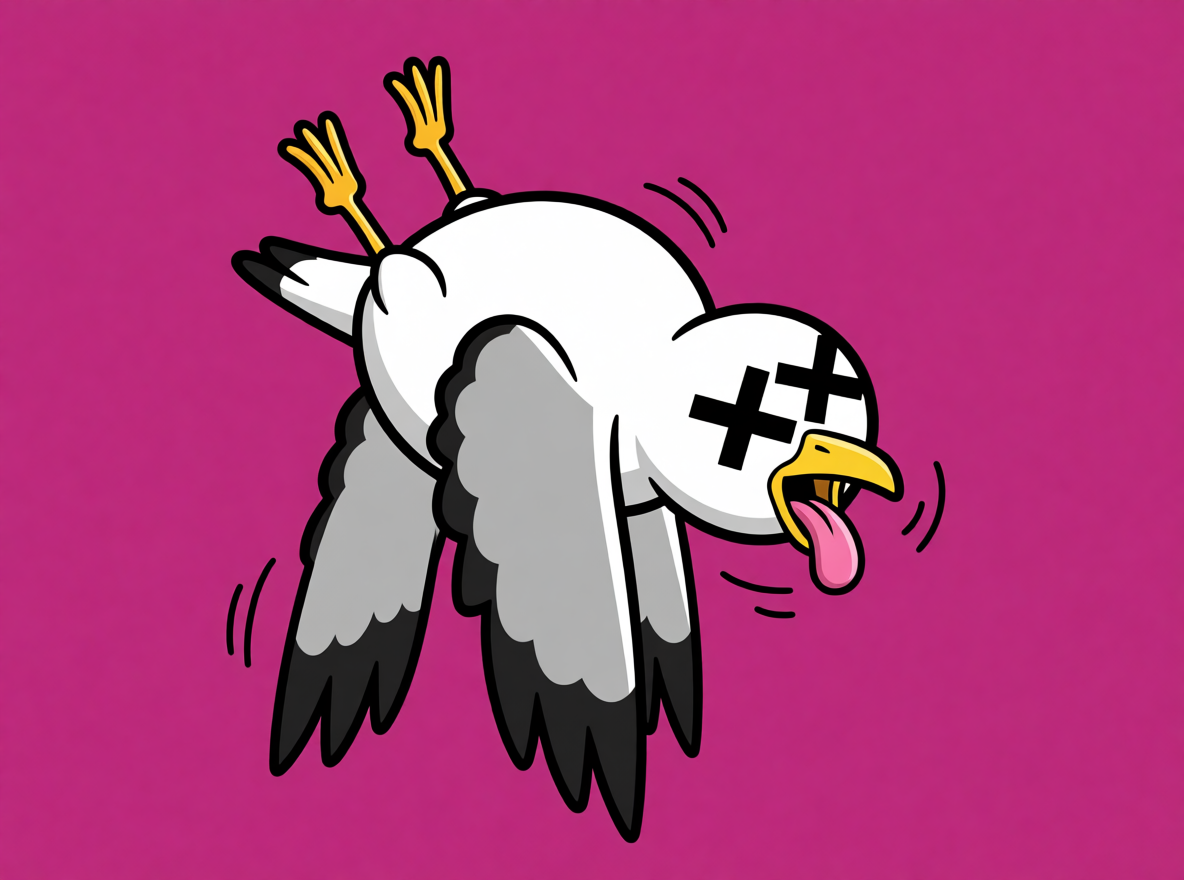
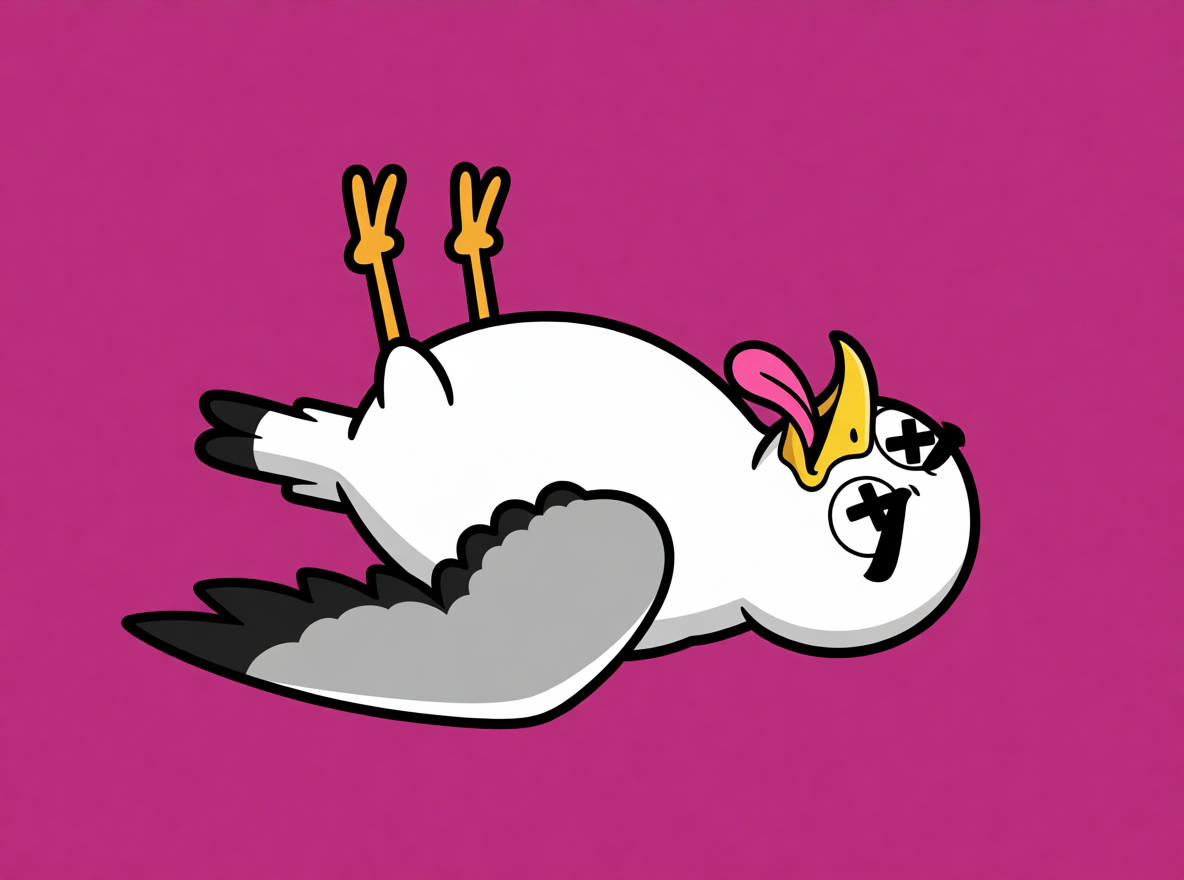
Frog Ninja: end of a run (teeter 10% smaller, painted katanas left in the post, painted splash), fainted seagull with one wing, never the same frog picture twice running

Changed region(s): [[0.0938, 0.0614, 0.8438, 0.9511]]

diff --git a/static/js/views/frog-game.js b/static/js/views/frog-game.js
@@ -298,10 +298,10 @@ const HOP_ART = { url: '/img/game/frog/hop.f4e8b0205d.webp', size: [1280, 530], 
 // the teeter (Marek's pick 2026-11-22, 'really off-base, like about to fall very strongly'; scared, not loud): under five seconds it is tipped right over
 // on the toes of one foot, arms flung out, hands empty: its katanas are stuck in the post (the fire breath's picture of them). mid/feet: the toes
 // it stands on (read off the picture: the builder's --foot caught a hand too); rock: degrees it sways about them, faster the less time there is.
-const TEETER_ART = { url: '/img/game/frog/teeter.47b8c075fd.webp', size: [839, 692], mid: 112, feet: 687, headW: 260, rock: 7, katanas: true };
+const TEETER_ART = { url: '/img/game/frog/teeter.47b8c075fd.webp', size: [839, 692], mid: 112, feet: 687, headW: 260, rock: 7, katanas: true, grow: 0.9 };      // (Marek, 2026-11-24: 10% smaller)
 // the fall (Marek's pick 2026-11-22, 'put the open mouth for now'): game over, arms thrown up, mouth open. It sits in the frog's own group, so the
 // topple and the drop that turned the drawn frog over (pose.fallRot, pose.fallY) turn and drop this picture. No katanas in it: they fall on their own.
-const FALL_ART = { url: '/img/game/frog/fall.1ad4941ca5.webp', size: [528, 707], mid: 236, feet: 707, headW: 245, lift: 120, front: true };
+const FALL_ART = { url: '/img/game/frog/fall.1ad4941ca5.webp', size: [528, 707], mid: 236, feet: 707, headW: 245, lift: 120, front: true, grow: 0.9 };      // (the size of the teeter before it)
 const CUT_POSES = { cut: CUT_ART, down: SIDESLASH_ART, over: OVER_ART, under: UNDER_ART, duck: DUCK_ART, rise: RISE_ART, hop: HOP_ART, teeter: TEETER_ART, fall: FALL_ART };
 // The twitch (Marek, 2026-11-22: 'a slight directional twitch that currently exists for the upward slash, across all animations'): the overhead slash
 // jumps a little further up for the first two frames and settles (its squash); every other cut pose now does the same along its cut: TWITCH rig units
@@ -1190,6 +1190,12 @@ function drawLaptop(ctx, b, lw) {
     ctx.beginPath(); ctx.rect(-r * 1.05, r * 0.6, r * 2.1, r * 0.18); ctx.fill(); ctx.stroke();
     ctx.restore();
 }
+// The frog's splash when it goes into the sea at the end of a run, painted (built by art_build_splash.py).
+// SPLASH_ART:begin (written by design/frog/tools/art_build_splash.py: do not edit by hand)
+const SPLASH_ART = { url: '/img/game/fx/splash.534a031bc0.webp', size: [560, 299] };
+// SPLASH_ART:end
+const splashArt = { img: null };
+if (ART.frog && SPLASH_ART && typeof Image !== 'undefined') { const i = new Image(); i.onload = () => { splashArt.img = i; }; i.src = SPLASH_ART.url; }
 // The seagull as a painted character (3.7; Marek's pick 'seagull A', 2026-11-24: "a plain seagull made in the style of the
 // frog", no headband, nothing in its claws): one drawing per pose, built by art_build_gull.py. px = pixels per r; at = the
 // gull's centre in the picture. ?art=old (or a picture that did not load) leaves the code drawing below.
@@ -1199,7 +1205,7 @@ const GULL_ART = { px: 96, poses: {
     mid: { url: '/img/game/gull/mid.eca8949765.webp', size: [329, 176], at: [174.0, 100.4] },
     down: { url: '/img/game/gull/down.2e1eb02f3b.webp', size: [229, 211], at: [156.3, 65.6] },
     squawk: { url: '/img/game/gull/squawk.bcd62ce5e3.webp', size: [267, 201], at: [169.9, 125.0] },
-    fainted: { url: '/img/game/gull/fainted.0e74fb0cef.webp', size: [207, 243], at: [115.2, 89.6] },
+    fainted: { url: '/img/game/gull/fainted.a495502124.webp', size: [265, 174], at: [155.1, 94.8] },
     perched: { url: '/img/game/gull/perched.942b479251.webp', size: [210, 201], at: [137.4, 133.8] },
     peck: { url: '/img/game/gull/peck.f3286eb6eb.webp', size: [242, 160], at: [166.7, 92.8] },
     yell: { url: '/img/game/gull/yell.d9845a10b4.webp', size: [276, 197], at: [167.3, 129.8] },
@@ -2334,7 +2340,7 @@ export function mountFrogGame(stage, opts = {}) {
         if (m && !on && (artWheelOn() || artBreathOn() || pose.fallY || pose.chop || pose.up <= 0.5)) m = C.m = null;      // (not back to standing but into a cartwheel, a breath, a fall: those are their own pictures, no blend)
         const show = on || !!m;      // (through a change the cut layer is up either way: the standing frog in it is the copy, the real one comes back when it is over)
         if (show !== C.on) { C.on = show; svg.classList.toggle('fg-art-cut-on', show); }
-        const kat = !!(on && Q.katanas);
+        const kat = !!(on && Q.katanas && !pose.over);      // (at the end of a run the canvas has them: see 'left in the post')
         if (kat !== !!C.katOn) { C.katOn = kat; setA(C.kat, 'display', kat ? 'inline' : 'none'); }
         if (kat) { const bk = breathK(); setA(C.kat, 'transform', `translate(0 ${n2(pose.up * RISE)}) translate(993 ${BREATH_ART.rigFeet}) scale(${n2(bk)} ${n2(bk)}) translate(${-BREATH_ART.mid} ${-BREATH_ART.feet})`); }      // (where the fire breath has them: never mirrored)
         const L = C.L;
@@ -3305,7 +3311,26 @@ export function mountFrogGame(stage, opts = {}) {
         if (swingNext && swing.t >= POSE_MIN) { const q = swingNext; swingNext = null; swingTo(...q); }      // the stroke that waited
         if (swing && !swing.live && swing.t > holdUntil(swing) + SETTLE) swing = null;
     }
+    // Never the same picture of the frog twice running (Marek, 2026-11-24): a stroke that would show the picture the stroke
+    // before it showed (same pose, same side) shows that pose's stand-in instead: side cut <> floating slash, rising cut <>
+    // overhead, dive <> duck, hop > rising cut.
+    const POSE_ALT = { cut: 'down', down: 'cut', rise: 'over', over: 'rise', under: 'duck', duck: 'under', hop: 'rise' };
+    let lastPic = '';
+    const katImg = new Image(); katImg.onload = () => { katImg.ok = true; }; if (ART.frog) katImg.src = BREATH_ART.katanas;      // (the painted pair in the post, for the end of a run)
     function poseSwing() {
+        poseSwing0();
+        const s = swing, key = pose.artCut;
+        if (!s || !key || !POSE_ALT[key] || !artCut || !artCut.ready) return;
+        if (!s.pics) s.pics = {};
+        if (!(key in s.pics)) {
+            const first = !Object.keys(s.pics).length, sideOf = k => CUT_POSES[k].front && !CUT_POSES[k].faces ? 0 : pose.side || (s.side === 'L' ? -1 : 1);
+            const alt = first && key + sideOf(key) === lastPic ? POSE_ALT[key] : key;
+            s.pics[key] = alt; if (first) lastPic = alt + sideOf(alt);
+        }
+        const show = s.pics[key];
+        if (show !== key) { pose.artCut = show; if (!pose.side) { pose.side = s.side === 'L' ? -1 : 1; pose.face = pose.side; } }
+    }
+    function poseSwing0() {
         const s = swing, deg = s.a * 180 / Math.PI, cx = Math.cos(s.a), cy = Math.sin(s.a);
         const settling = !s.live && s.t > holdUntil(s);
         const k = settling ? 0.35 : 1;                               // one in-between on the way back to ready
@@ -5639,6 +5664,7 @@ export function mountFrogGame(stage, opts = {}) {
             k.vy += H * 2.4 * dt; k.y += k.vy * dt; k.x += (k.tx - k.x) * Math.min(1, dt * 5); k.rot += (0 - k.rot) * Math.min(1, dt * 7) + (Math.abs(k.rot) > 0.2 ? dt * 14 * Math.sign(k.rot) : 0);
             if (k.vy > 0 && k.y >= k.ty) { k.y = k.ty; k.x = k.tx; k.rot = 0; k.stuck = 0.0001; snd('stick'); }
         });
+        pose.over = overT > 0;
         if (overT <= 0) return;
         overT += dt;
         pose.artCut = 'fall';         // the picked fall stands in for the whole of it: the beat of shock, the topple, the drop
@@ -5689,7 +5715,10 @@ export function mountFrogGame(stage, opts = {}) {
         // full, and only then (OVER_WAIT s) the panel comes up
         // its katanas are left behind: they drop and stick, point down, in the top of the post
         const top = H - (H * 0.18 + 16) + fbox.w * 0.09;       // a little below the rim: the points are in the wood
-        dropped = [-1, 1].map(sd => { const h = frogPoint(sd < 0 ? 300 : 1686, 700); return { x: h.x, y: h.y, tx: W / 2 + sd * fbox.w * 0.11, ty: top, rot: sd * 2.4, vy: -H * 0.25, stuck: 0 }; });
+        // (painted: they are in the post, the same picture of them the teeter and the fire breath have, and they stay there
+        //  when the frog has gone: none drop. The two drawn ones below are for ?art=old only.)
+        const inPost = !!(artCut && artCut.ready);
+        dropped = inPost ? [] : [-1, 1].map(sd => { const h = frogPoint(sd < 0 ? 300 : 1686, 700); return { x: h.x, y: h.y, tx: W / 2 + sd * fbox.w * 0.11, ty: top, rot: sd * 2.4, vy: -H * 0.25, stuck: 0 }; });
         pose.noBlades = true;
         // (it was teetering on one foot: that foot slips, and it goes over as it stands, the other leg still up)
         pose.side = 0; pose.slip = !!pose.low; stage.classList.add('fg-fallen'); overT = 0.0001; splashed = false; swing = null; windUp = false; down = false; cut = null;
@@ -6040,6 +6069,7 @@ export function mountFrogGame(stage, opts = {}) {
         state() {
             const cb = canvas.getBoundingClientRect(), at = o => ({ x: Math.round(o.x + cb.left), y: Math.round(o.y + cb.top) });
             return {
+                pic: swing && !(!swing.live && swing.t > holdUntil(swing)) ? pose.artCut + (pose.side < 0 ? " L" : pose.side > 0 ? " R" : "") : "",      // (the picture a stroke is showing: sound and repeat checks read it)
                 phase, paused: typeof paused !== 'undefined' && paused, debug: dbg, w: W, h: H, survived: r2(clockT), left: r2(timeLeft), stamina: r2(stamina),
                 sake: r2(sakeLeft), fire: r2(fireLeft), freeze: r2(freezeLeft), mirrored: mirrorT > 0, stunned: stunT > 0, tongue: !!tongue, still: dbg && dbgFrozen,
                 fruits: fruits.filter(f => f.entered && !isBehind(f)).map(f => Object.assign(at(f), { r: Math.round(f.r), vx: Math.round(f.vx), vy: Math.round(f.vy), g: Math.round(f.g), kind: f.type.kind, hacked: !!f.hacked, bare: !!f.bare, roasted: !!f.roasted })),
@@ -6056,6 +6086,7 @@ export function mountFrogGame(stage, opts = {}) {
         debug() { if (!dbg) { el.tips.hidden = true; el.overlay.hidden = true; startDebug(); } dbgFrozen = false; dbgWake = 0; },
         drop(what, x, y) { spawnDebug(what, x, y, true); dbgFrozen = false; dbgWake = 0; },
         still() { dbgFrozen = true; dbgWake = 0; },
+        over() { timeLeft = 0; gameOver(); },      // (the end of a run, now: for the end-of-game pictures)
         health() { return { bugs: bugSeen, letdowns, snaps, crashes, phase, survived: r2(clockT) }; },   // the monkey bot reads this                // debug: back to the stand-still before the first touch
         roast(x, y) { spawnGull(x, y); const g = gulls[gulls.length - 1]; Object.assign(g, { state: 'faint', burnt: true, hits: 3, vx: 0, vy: -H * 0.2, speed: 0 }); },
         breath(o) { fireLeft = o.seconds || FIRE_SECONDS; fireEmit = 0; fireSlow = o.slow || 0; fireWide = o.wide || 0; fireFry = o.fry || 0; fireTint = fireSlow ? 'clock' : ''; fireFw = false; },
@@ -6775,7 +6806,10 @@ export function mountFrogGame(stage, opts = {}) {
             splashT += 1 / 60;
             const k = splashT / 0.9, sea = H * 0.9, up = Math.sin(Math.min(1, k * 1.6) * Math.PI) * H * 0.2;
             bctx.save(); bctx.globalAlpha = 1 - k;
-            [-1, 1].forEach(sd => {
+            if (splashArt.img) {      // the painted splash: it comes up from the water line, hangs, and sinks back as it fades
+                const rise = Math.sin(Math.min(1, k * 1.25) * Math.PI * 0.62) / Math.sin(Math.PI * 0.62), sw = fbox.w * (1.5 + 0.5 * Math.min(1, k * 2)), sh = sw * SPLASH_ART.size[1] / SPLASH_ART.size[0] * (0.25 + 0.75 * rise);
+                bctx.globalAlpha = Math.min(1, (1 - k) * 2.2); bctx.drawImage(splashArt.img, W / 2 - sw / 2, sea + fbox.w * 0.04 - sh, sw, sh); bctx.globalAlpha = 1 - k;
+            } else [-1, 1].forEach(sd => {
                 const x0 = W / 2 + sd * fbox.w * 0.2;
                 bctx.beginPath(); bctx.moveTo(x0, sea); bctx.quadraticCurveTo(x0 + sd * fbox.w * 0.25, sea - up * 1.6, x0 + sd * fbox.w * (0.55 + k * 0.3), sea - up * 0.5);
                 bctx.quadraticCurveTo(x0 + sd * fbox.w * 0.45, sea - up * 0.3, x0 + sd * fbox.w * 0.5, sea); bctx.closePath();
@@ -6995,6 +7029,12 @@ export function mountFrogGame(stage, opts = {}) {
         const parked = !stuckNow.length && !dropped.length && !pose.plan && pose.held && !pose.noBlades && stage.classList.contains('fg-drunk');
         parkT = parked ? parkT + 1 / 60 : 0;
         if (parked) stuckNow.push({ x: W / 2 + fbox.w * 0.17, y: H - (H * 0.18 + 16) + fbox.w * 0.09, rot: Math.PI / 4, stuck: Math.max(parkT, 0.0001) });
+        // left in the post: at the end of a run the frog goes over and into the sea, and its two katanas stay where the teeter's
+        // picture had them, stuck in the top of the post (the same painted pair, drawn here because the frog's own layer falls)
+        if (pose.over && katImg.ok) {
+            const Q = BREATH_ART, bk = breathK(), sx = fbox.w / 1986, sy = fbox.h / 1876;
+            ctx.drawImage(katImg, fbox.x + (993 + bk * (Q.katanasAt[0] - Q.mid)) * sx, fbox.y + (Q.rigFeet + bk * (Q.katanasAt[1] - Q.feet)) * sy, bk * Q.katanasSize[0] * sx, bk * Q.katanasSize[1] * sy);
+        }
         dropped.concat(stuckNow).forEach(k => {   // a katana, point down: falling, then quivering in the wood
             const L = fbox.w * 0.42, wob = k.stuck ? Math.sin(k.stuck * 40) * 0.12 * Math.exp(-k.stuck * 6) : 0;
             ctx.save(); ctx.translate(k.x, k.y); ctx.rotate(k.rot + wob);

diff --git a/design/frog/tools/art_build_splash.py b/design/frog/tools/art_build_splash.py
@@ -1,0 +1,38 @@
+#!/usr/bin/env python3
+"""The frog's splash at the end of a run (the sheet of water thrown up behind the post), painted.
+
+    python art_build_splash.py [--sheet out.png]
+
+Reads design/frog/art/sources/fx/splash.png (a splash on magenta, made with qwen_edit.py from the frog's picture for
+the style; the strip of sea under it is cut away), writes static/img/game/fx/splash.<hash>.webp and the SPLASH_ART
+line in frog-game.js between its markers. The game draws it from its bottom edge, rising and fading.
+"""
+import argparse, hashlib, io, os, re
+from PIL import Image
+from art_build_gull import keyed, FROG, REPO, JS
+
+SRC = os.path.join(FROG, 'art', 'sources', 'fx', 'splash.png'); OUT = os.path.join(REPO, 'static', 'img', 'game', 'fx')
+SEA = 690          # the row where the sea under the splash starts, in the source: everything from there down goes
+W = 560            # built width
+
+
+def main():
+    ap = argparse.ArgumentParser(); ap.add_argument('--sheet', default=''); a = ap.parse_args()
+    src = Image.open(SRC); img = keyed(SRC, loose=True, box=(0, 0, src.width, SEA)); img = img.crop(img.getbbox())
+    img = img.resize((W, round(img.height * W / img.width)), Image.LANCZOS)
+    b = io.BytesIO(); img.save(b, 'WEBP', quality=90, method=6); data = b.getvalue()
+    os.makedirs(OUT, exist_ok=True); fn = f'splash.{hashlib.sha256(data).hexdigest()[:10]}.webp'
+    for old in os.listdir(OUT):
+        if old.startswith('splash.') and old != fn: os.remove(os.path.join(OUT, old))
+    open(os.path.join(OUT, fn), 'wb').write(data)
+    block = ('// SPLASH_ART:begin (written by design/frog/tools/art_build_splash.py: do not edit by hand)\n'
+             f"const SPLASH_ART = {{ url: '/img/game/fx/{fn}', size: [{img.width}, {img.height}] }};\n// SPLASH_ART:end")
+    s = open(JS, encoding='utf-8').read(); s2, n = re.subn(r'// SPLASH_ART:begin.*?// SPLASH_ART:end', lambda m: block, s, flags=re.S)
+    if n != 1: raise SystemExit('frog-game.js has no SPLASH_ART markers')
+    open(JS, 'w', encoding='utf-8', newline='\n').write(s2); print(fn, img.size, len(data) // 1024, 'kB')
+    if a.sheet:
+        sh = Image.new('RGBA', (img.width + 40, img.height + 40), (22, 62, 86, 255)); sh.alpha_composite(img, (20, 20)); sh.convert('RGB').save(a.sheet)
+
+
+if __name__ == '__main__':
+    main()

diff --git a/design/frog/tools/art_build_gull.py b/design/frog/tools/art_build_gull.py
@@ -26,15 +26,20 @@ POSES = {'up': ('body', 1), 'mid': ('body', 1), 'down': ('body', 1.08), 'squawk'
          'perched': ('feet', 1), 'peck': ('feet', 1), 'yell': ('feet', 1)}
 
 
-def keyed(path):
-    """cut the bird off its magenta ground: the ground is whatever pink is joined to the picture's edge"""
-    D = np.asarray(Image.open(path).convert('RGB')).astype(np.int16); R, G, B = D[..., 0], D[..., 1], D[..., 2]
+def keyed(path, loose=False, box=None):
+    """cut the bird off its magenta ground: the ground is whatever pink is joined to the picture's edge.
+    loose: keep the bits that are not joined to the main figure (a splash's drops), and take out pink shut in between them
+    (a bird keeps its pink tongue). box: only this part of the picture (left, top, right, bottom)."""
+    im = Image.open(path).convert('RGB')
+    if box: im = im.crop(box)
+    D = np.asarray(im).astype(np.int16); R, G, B = D[..., 0], D[..., 1], D[..., 2]
     pink = (R > G + 45) & (B > G + 20)
     lab, _ = ndimage.label(pink)
     edge = np.unique(np.concatenate([lab[0], lab[-1], lab[:, 0], lab[:, -1]])); edge = edge[edge > 0]
     ground = np.isin(lab, edge)
+    if loose: ground |= pink & (ndimage.sum(pink, lab, lab) > 150)
     bird, n = ndimage.label(~ground)                                                # only the bird: loose marks around it (motion lines) go with the ground
-    if n > 1: ground = bird != (1 + int(np.argmax(ndimage.sum(~ground, bird, range(1, n + 1)))))
+    if n > 1 and not loose: ground = bird != (1 + int(np.argmax(ndimage.sum(~ground, bird, range(1, n + 1)))))
     ground = ndimage.binary_dilation(ground, iterations=2)                       # (take the pink fringe of the outline with it)
     al = np.asarray(Image.fromarray(((~ground) * 255).astype(np.uint8)).filter(ImageFilter.GaussianBlur(0.8))).astype(np.float32) / 255
     al = np.clip((al - 0.35) / 0.6, 0, 1)
